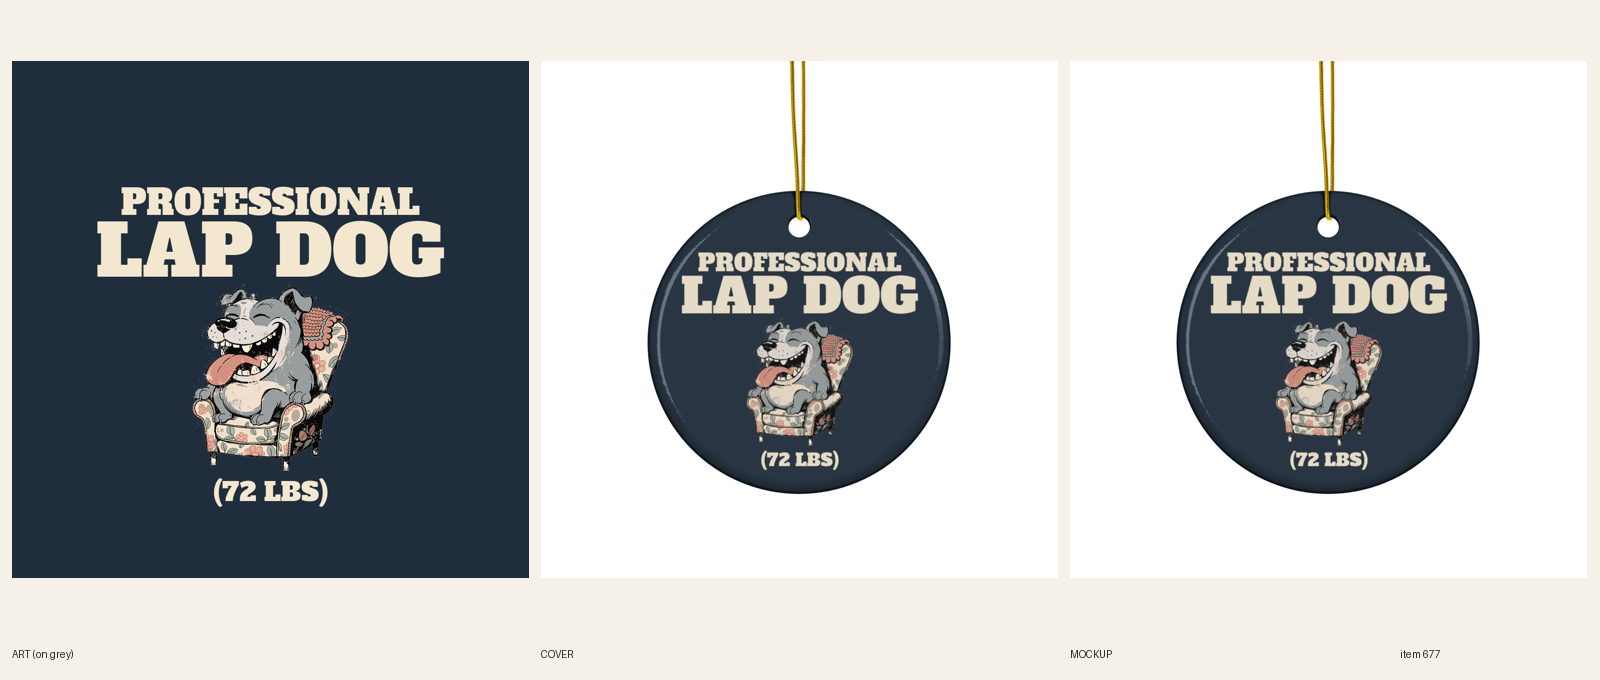
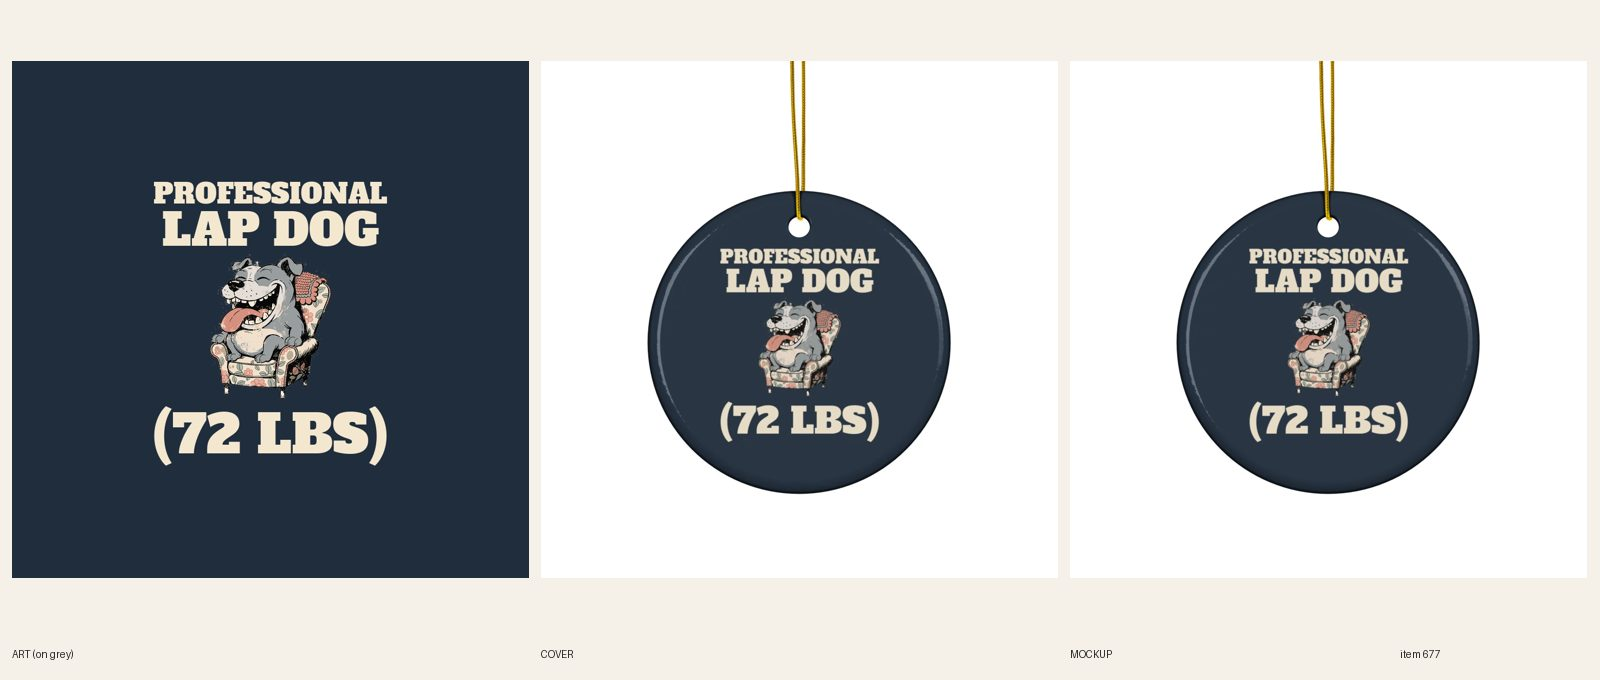
[C] review 677 pit bull ornament punch width

Changed region(s): [[0.0625, 0.2471, 0.2812, 0.7412], [0.75, 0.3397, 0.9062, 0.7103], [0.4062, 0.3397, 0.5938, 0.7103]]

diff --git a/scripts/_c_orn_redo.py b/scripts/_c_orn_redo.py
@@ -1,0 +1,16 @@
+#!/usr/bin/env python3
+"""b-orn-redo.py <id> <handle> <sync product id> <png> <art for sheet>: new print file for a built ornament: host + upload, relink the sync variant, new #881 mockup,
+replace public/covers/<handle>.webp and the review sheet. Prints the new file id and mockup url (fileUpdate the Shopify media with it)."""
+import os, sys, json, subprocess, urllib.request
+from pathlib import Path
+n, handle, sp, png, art = sys.argv[1:6]; ROOT = Path(__file__).resolve().parent.parent
+run = lambda *a: subprocess.run(['/usr/bin/python3', *a], check=True, capture_output=True, text=True, cwd=ROOT).stdout.strip()
+furl = run('scripts/fal-host.py', png); fid = run('scripts/pf-sync.py', 'upload', furl, f'e{n}-ornament-v2.png')
+T = os.environ['PRINTFUL_TOKEN']
+sv = json.load(urllib.request.urlopen(urllib.request.Request(f'https://api.printful.com/sync/products/{sp}', headers={'Authorization': 'Bearer ' + T, 'User-Agent': 'gtc-builder'})))['result']['sync_variants'][0]['id']
+run('scripts/pf-orn.py', 'sync', str(sv), fid); mj = f'/tmp/mock-{n}.json'; run('scripts/pf-orn.py', 'mockup', furl, mj)
+url = json.load(open(mj))['main:front']; jpg = f'/tmp/m-{n}.jpg'; urllib.request.urlretrieve(url, jpg)
+from PIL import Image
+Image.open(jpg).convert('RGB').save(ROOT / f'public/covers/{handle}.webp', 'WEBP', quality=88)
+run('scripts/review-sheet.py', n, art, str(ROOT / f'public/covers/{handle}.webp'), jpg)
+print('FILE', fid); print('MOCKUP', url)

diff --git a/docs/pipeline/677-pit-bull-ornament-professional-lap-dog-72-lbs.md b/docs/pipeline/677-pit-bull-ornament-professional-lap-dog-72-lbs.md
@@ -1,4 +1,4 @@
-status: REDO
+status: REVIEW
 lane: C
 type: addon
 id: 677
@@ -27,3 +27,4 @@ kd: 34
 - 2026-10-19 07:40 UTC [C] built: DRAFT gid 15366548881712, Printful #881 sync 482958801, 1/1 Circle (22782) synced on file 1089411965 (954x954; scripts/ornament-print.py, designs/o677/spec.json): dog + chair from Printful file 1088435281 on navy #1f2d3d, Alfa Slab cream PROFESSIONAL / LAP DOG / (72 LBS) re-set. Mockup lesson: Printful trims ~8% off the disc edge and the string hole covers file y 0-~195, so type sits in a 372 px safe radius starting at y 232 (first two layouts hit the hole and the rim, redone). Cost 6.34, $14.99, profit ~8.65. Keyword pitbull ornament 390/KD 34 recorded. FAQ 51-60 words, 6 questions. Etsy/Google search for the line on an ornament: none found. Cover: Printful #881 flat mockup (no person). fal 0. Audit passes except not ACTIVE.
 - 2026-10-19 08:20 UTC director: APPROVED on docs/review/677.jpg (lockup is the loudest thing, every word reads at phone size on the Printful mockup, no bare white ring; title, tags, $14.99 with no compare-at checked in Shopify). Copy fixed in Shopify by the director: SEO title cut to 60 or less and meta to 155 or less (R8.4); removed the production-note paragraph \"The print is set for a small round disc ... no bare white ring\" (R8.3). Stays DRAFT at status REVIEW until the quality reset says RESUME; the director publishes it then without a second review.
 - 2026-10-20 18:45 UTC director: REDO (still DRAFT). R3.7.8: (72 LBS) is the punchline and is the smallest line on the disc, about 35% of LAP DOG's width. Set (72 LBS) at least as wide as LAP DOG (drop the parentheses' spacing, go bold and big under the chair; shrink the chair, not the words, but keep the dog 45%+ of the lockup width, card 7l). New mockup + sheet.
+- 2026-10-20 21:33 UTC [C]: REDO done (R3.7.8, 7h, 7l). Disc re-laid: LAP DOG 400 px / (72 LBS) 436 px wide (punch 109% of LAP DOG), (72 LBS) 111 px tall (tallest line, parentheses kept); dog + chair 224 px of 436 px lockup = 51%. PROFESSIONAL 432 px. Same Alfa Slab cream on navy, all inside the 372 px safe radius. File 1090686345 on the Circle sync variant, new mockup replaced in place (fileUpdate, alt kept), cover and sheet updated. fal $0. designs/o677/spec2.json.

diff --git a/docs/intake-log.md b/docs/intake-log.md
@@ -1,3 +1,4 @@
+2026-10-20 21:33 UTC — [C] Builder run: #677 pit bull ornament (72 LBS) widened above LAP DOG, REVIEW.
 2026-10-20 21:31 UTC — [C] Builder run: #693 strawberry mug punch widened to 100% of headline, REVIEW.
 2026-10-20 21:30 UTC — [C] Builder run: #692 alien mug photos re-attached (3 mockups), REVIEW.
 RUNNING lane C since 2026-10-20 21:30 UTC
